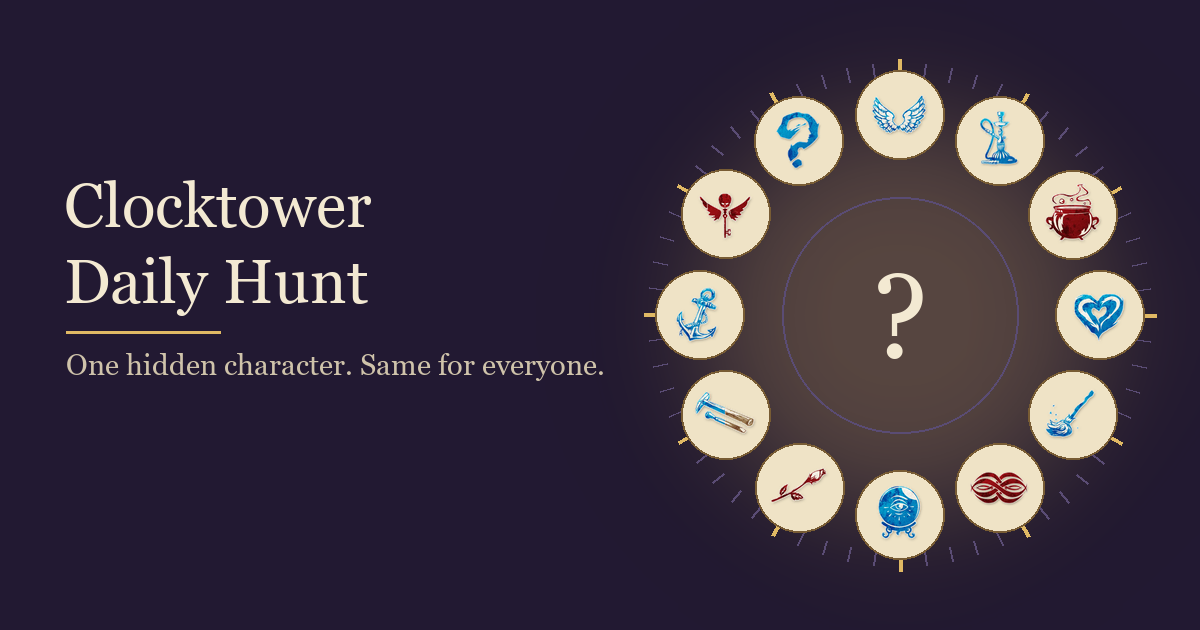
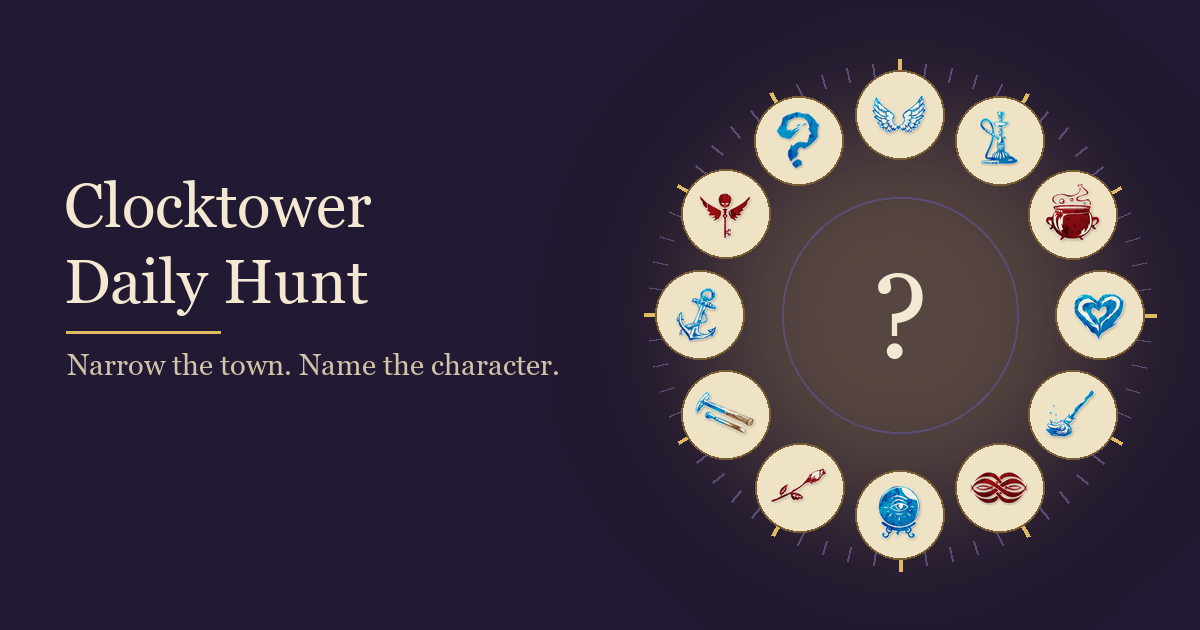
New hunt preview subline: "Narrow the town. Name the character."
Replaces "One hidden character. Same for everyone." on the link preview image
and leads the og:description. The og:image URL now carries the version
marker so link previews pick up the new image.

Claude-Session: https://claude.ai/code/session_01CZQdFgsmkcaja97entFbAo

Changed region(s): [[0.0308, 0.5429, 0.4933, 0.6032]]

diff --git a/index.html b/index.html
@@ -8,10 +8,10 @@
   <meta property="og:type" content="website">
   <meta property="og:site_name" content="Clocktower Character Quiz">
   <meta property="og:title" content="Clocktower Daily Hunt">
-  <meta property="og:description" content="One hidden Blood on the Clocktower character, the same for everyone today. Ask questions, narrow the town, and guess.">
+  <meta property="og:description" content="Narrow the town. Name the character. A new Blood on the Clocktower hunt every day, the same puzzle for everyone.">
   <meta property="og:url" content="https://panimu.github.io/botc/">
   <meta name="theme-color" content="#221932">
-  <meta property="og:image" content="https://panimu.github.io/botc/resources/og/hunt.png">
+  <meta property="og:image" content="https://panimu.github.io/botc/resources/og/hunt.png?v=dev">
   <meta property="og:image:width" content="1200">
   <meta property="og:image:height" content="630">
   <meta property="og:image:alt" content="A clock face ringed with Blood on the Clocktower character tokens around a question mark.">
